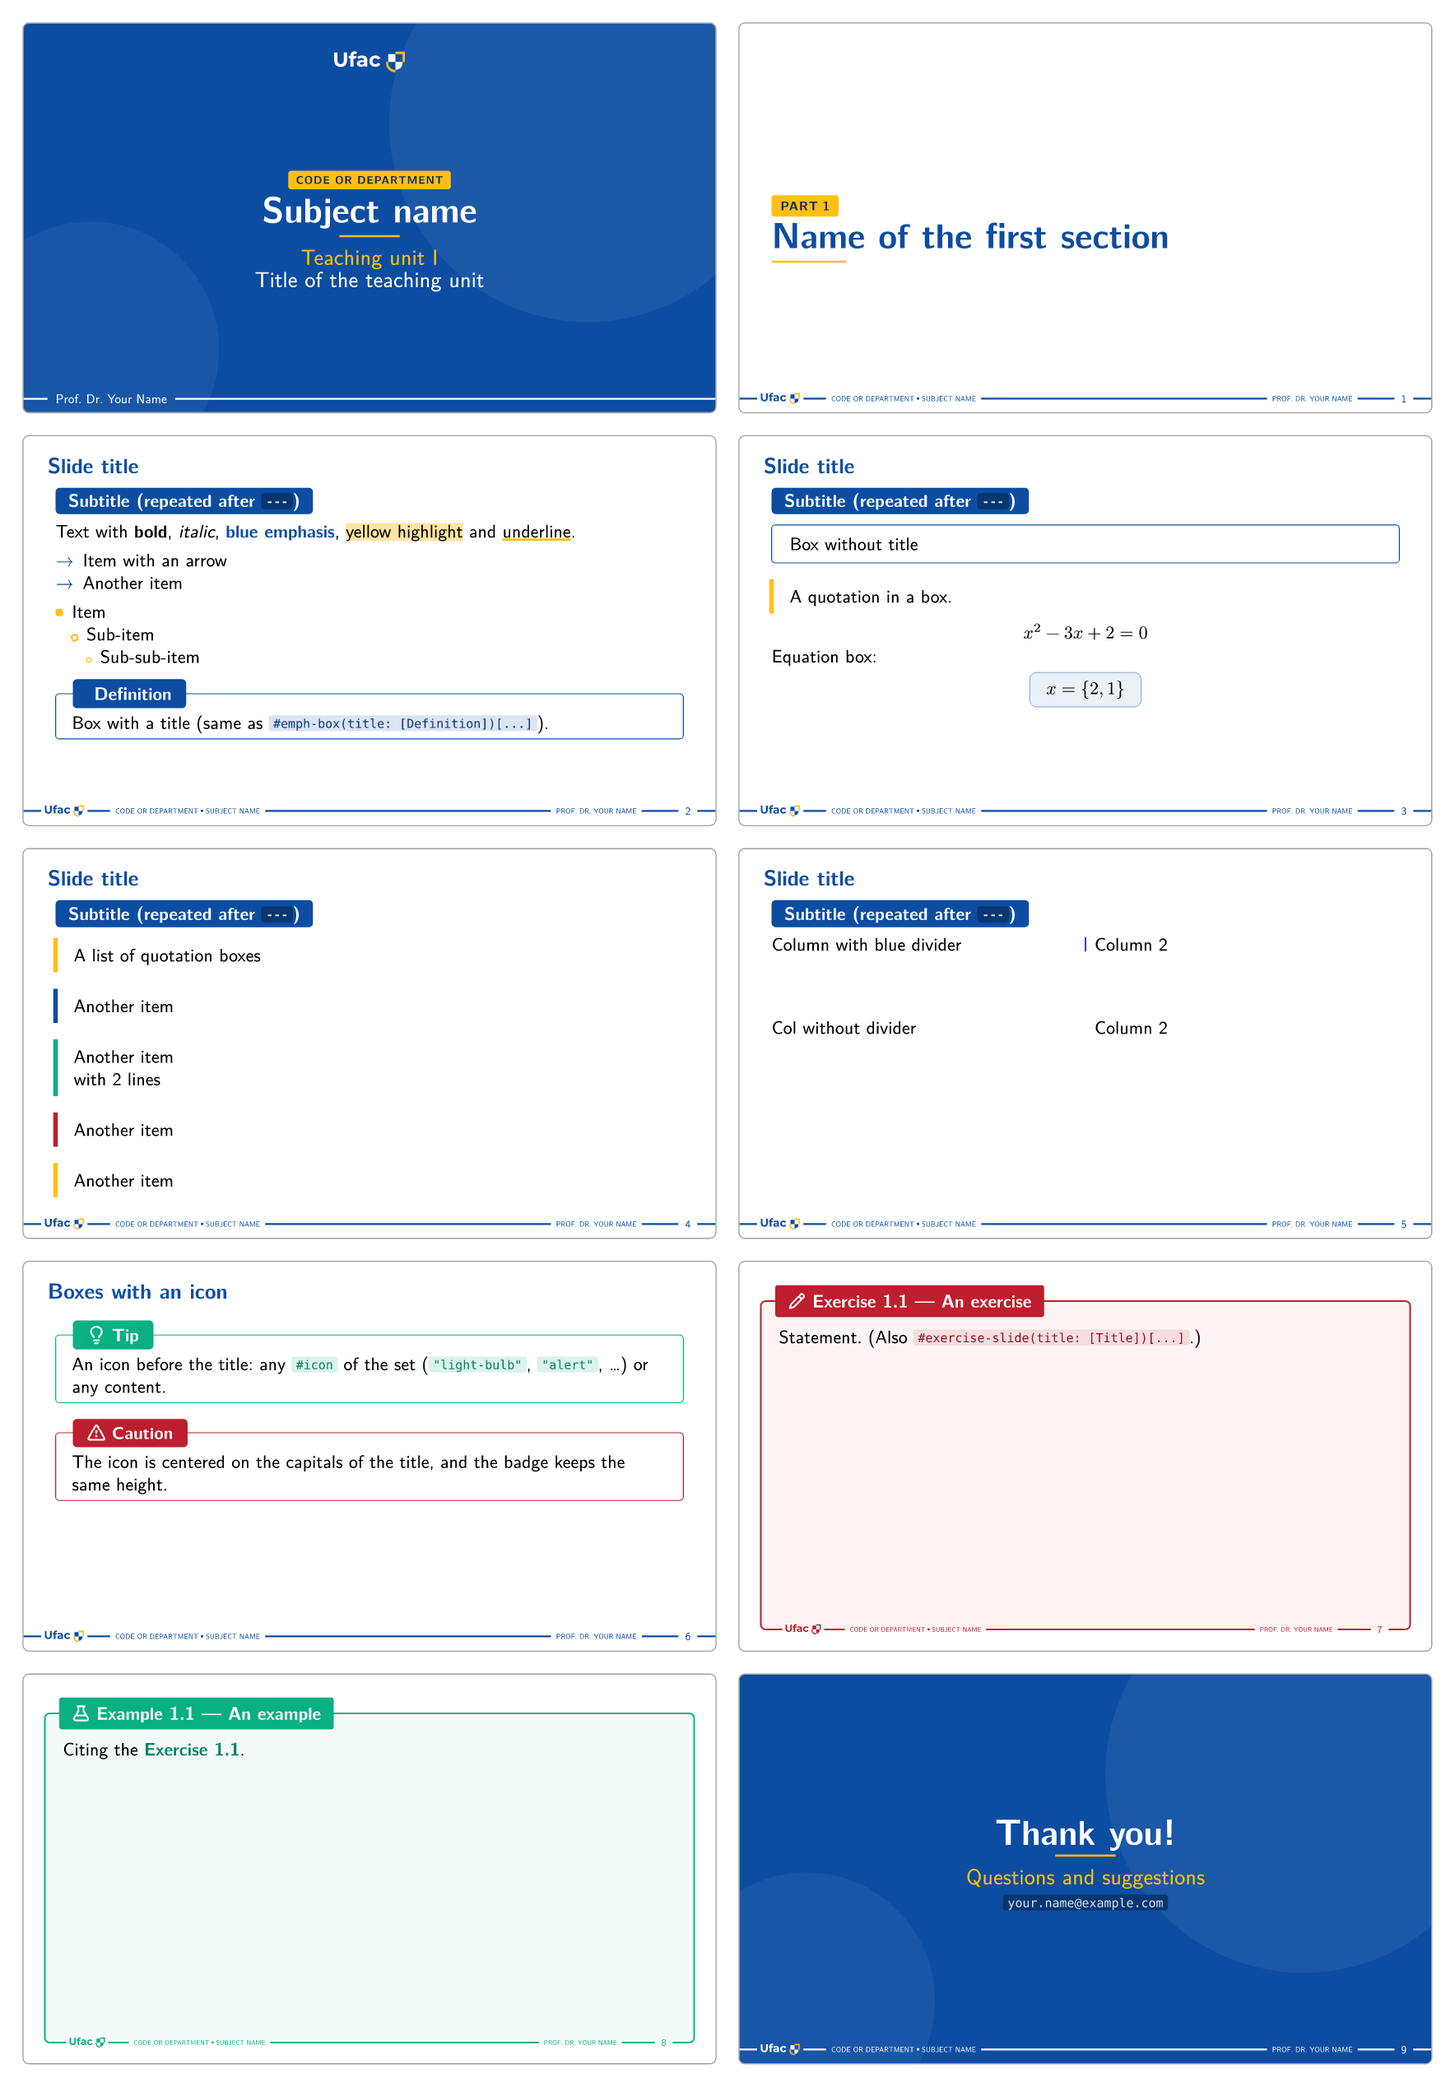
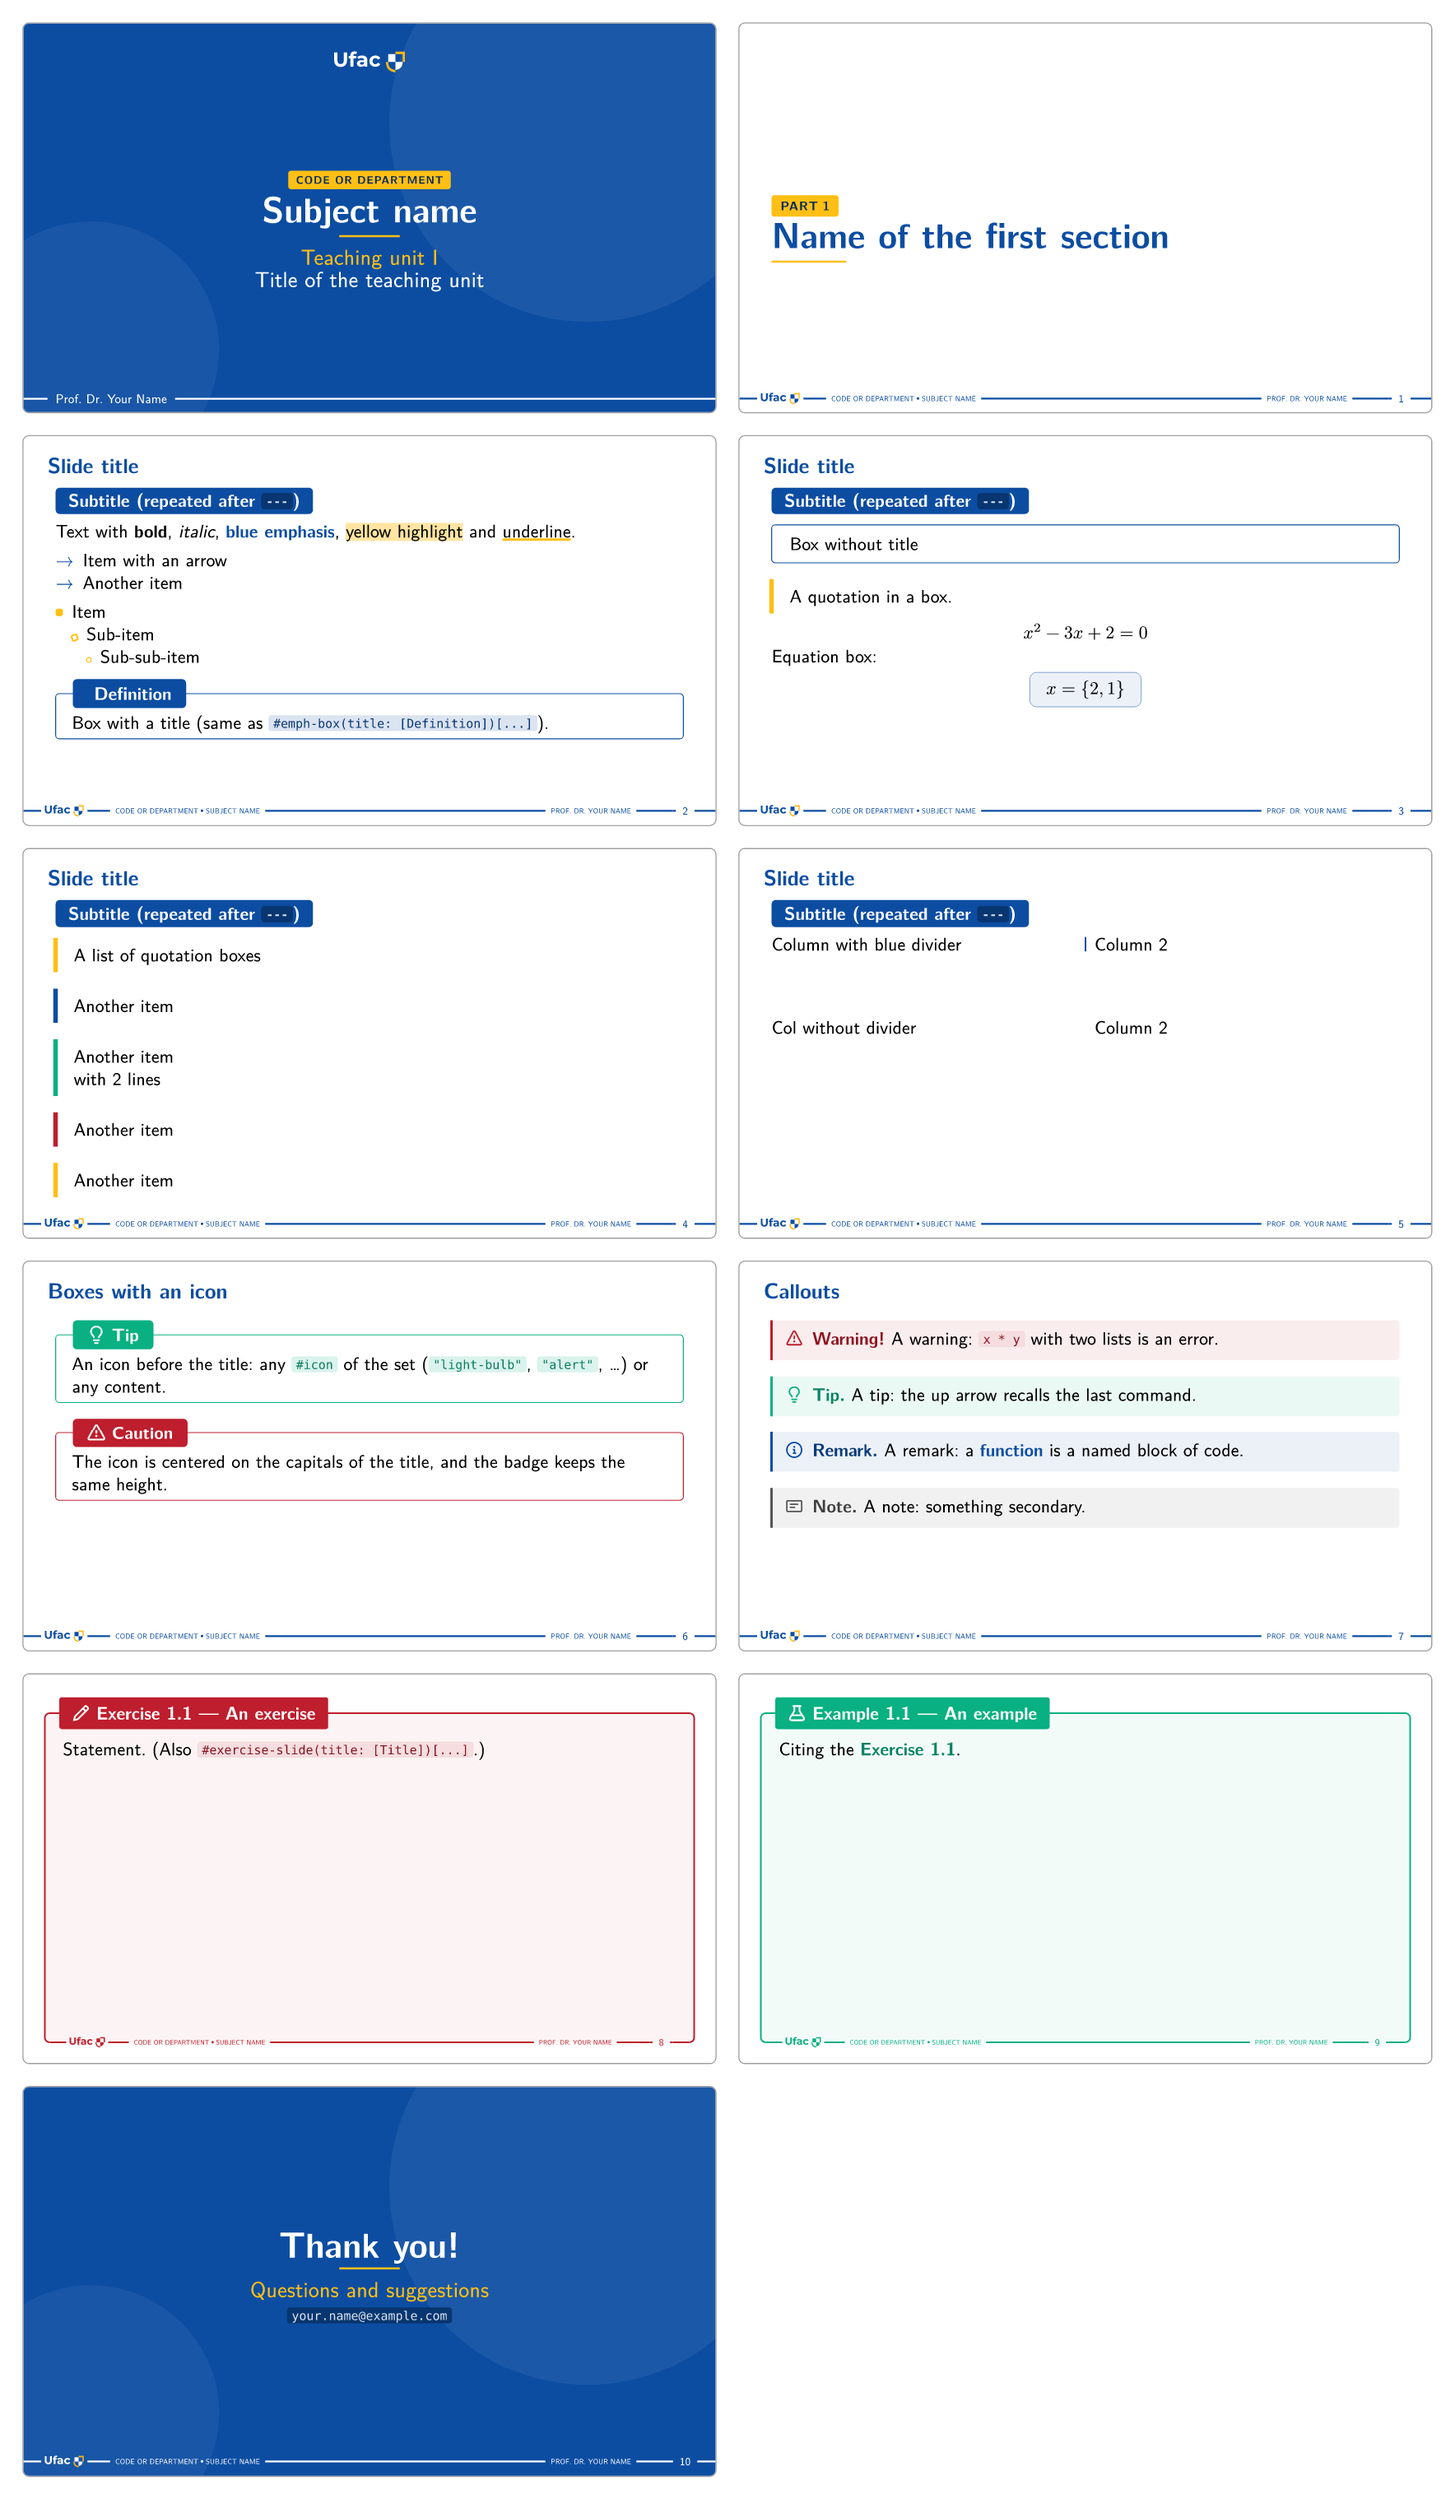
Exemplo: os avisos
O example/main.typ ganha um slide com os quatro avisos (#callout: atenção, dica, observação e nota), que são novos na 0.3.0. O README e a figura do exemplo foram regerados.

diff --git a/README.md b/README.md
@@ -161,6 +161,14 @@ with 2 lines"
   The icon is centered on the capitals of the title, and the badge keeps the same height.
 ]
 
+== Callouts
+// a warning, a tip, a remark or a note: the colour, the icon and the title in the language of the deck;
+// `style: "badge"` gives the look of the boxes above
+#callout("warning")[A warning: `x * y` with two lists is an error.]
+#callout("tip")[A tip: the up arrow recalls the last command.]
+#callout("info")[A remark: a *function* is a named block of code.]
+#callout("note")[A note: something secondary.]
+
 == An exercise <exercise-a>
 
 Statement. (Also `#exercise-slide(title: [Title])[...]`.)
@@ -174,7 +182,7 @@ Citing the @exercise-a.
 #ending-slide[Thank you!][Questions and suggestions][`your.name@example.com`]
 ```
 
-![The 10 pages of example/main.typ](https://raw.githubusercontent.com/lucaslrodri/touying-ufac-unofficial/v0.3.0/docs/readme/example.png)
+![The 11 pages of example/main.typ](https://raw.githubusercontent.com/lucaslrodri/touying-ufac-unofficial/v0.3.0/docs/readme/example.png)
 <!-- example:end -->
 
 ## Syntax
